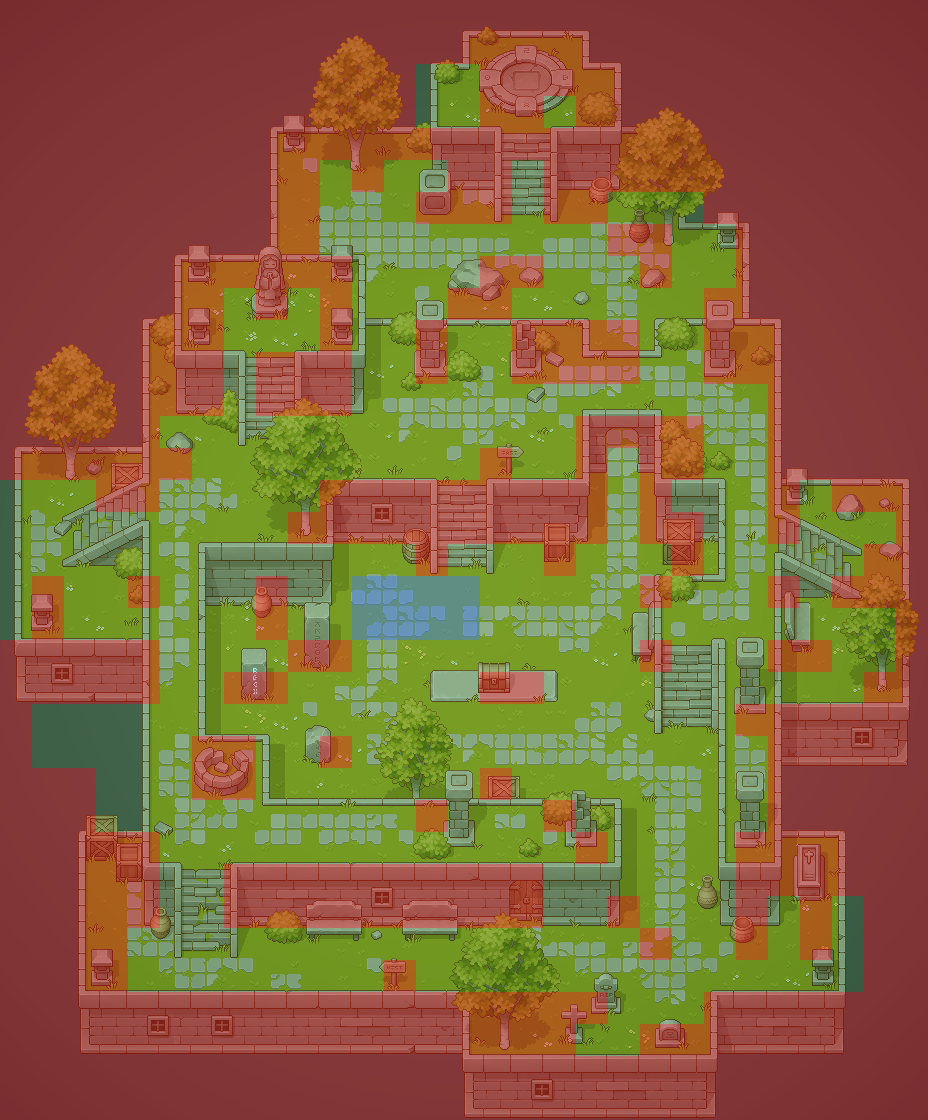
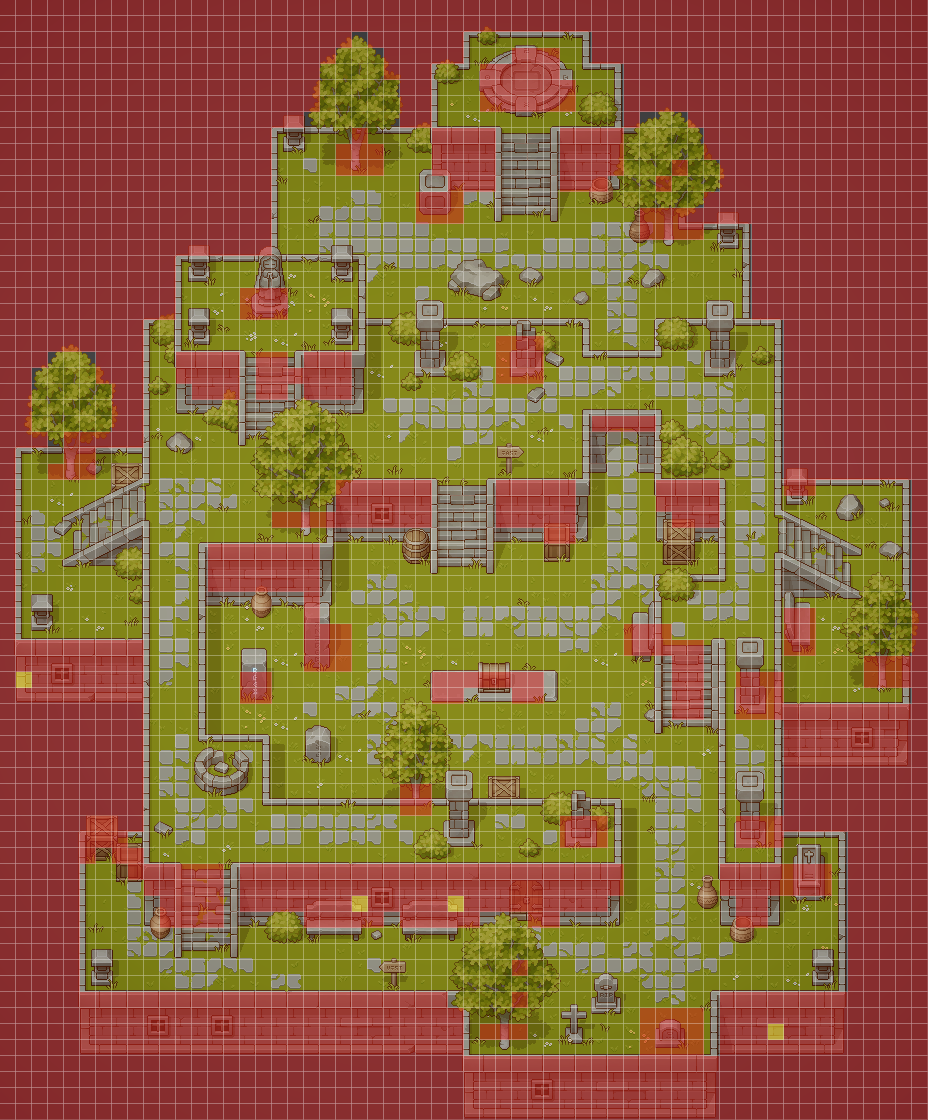
Fix ruins collision: derive 58x70 grid from art, render scene at 2x
The ruins art is 16px/tile (ground.png is a 1:1 crop of the pack's Scene
Overview), but collision used 32px cells, so each cell covered 2x2 art tiles
and any wall filling half a cell sealed a visually open corridor. The avatar
(48px sprite, radius 12) was also oversized for the art at scale 1.

- Render the scene at 2x (ART_SCALE) so 1 art tile = TILE_SIZE, matching the
  other scenarios; prop positions/bases scale with it
- Replace RUINS_ROWS with a 58x70 grid (1 cell per art tile) derived by
  template matching each scene tile against the pack tilesets (grass/stone =
  free, wall/props/struct = solid), plus denoise, prop footprints from the
  real sprite sizes, and explicit fixes for the north staircase and the
  stone gateway (its lintel is overhead, so the ground under it is walkable)
- Drop cacheAsTexture on the ruins ground: it is a single sprite already, and
  caching 1856x2240 would cost tens of MB of VRAM for nothing
- Add Game.selfPosition / __togetherPos() so tests can assert real movement
- Move spawn to the open central lawn

Walkable tiles go from 401 (5 unreachable) to 2092, all reachable. Verified
by walking the map headless: crossing the gateway north-south cell by cell,
up the north staircase to the dais platform, and both side wings.

diff --git a/shared/src/scenarios.ts b/shared/src/scenarios.ts
@@ -79,46 +79,86 @@ const PLAZA_ROWS = [
 ];
 
 /**
- * Ruínas 29x35 (assets Pixel Art Top Down - Basic, by Cainos).
+ * Ruínas 58x70 (assets Pixel Art Top Down - Basic, by Cainos).
  * O visual é a própria cena do pack ("Scene Overview") renderizada como
- * imagem de chão; esta grade define somente colisão: `#` sólido, `.` livre.
+ * imagem de chão, desenhada em 2x — a arte é de 16px/tile, então 1 tile de
+ * arte = 1 célula desta grade = TILE_SIZE na tela, como nos outros cenários.
+ * Esta grade define somente colisão: `#` sólido, `.` livre. Foi derivada por
+ * template matching de cada tile da cena contra os tilesets do pack (grama e
+ * pedra = livre; muro, props e estruturas = sólido), com as escadarias e o
+ * vão do arco liberados e as bases dos props altos marcadas sólidas.
  */
 const RUINS_ROWS = [
-  '#############################',
-  '#############################',
-  '#############..##############',
-  '#############..##.###########',
-  '#############################',
-  '##########.#..##.############',
-  '##########...###.##...#######',
-  '##########.........##..######',
-  '###########....##...#..######',
-  '#######.#.#...##......#######',
-  '#######...#..#..####..#######',
-  '#######.###..#..####..#######',
-  '#######.###.............#####',
-  '#####.............####..#####',
-  '######.........#..#.##..#####',
-  '...##.....#########.#...#.###',
-  '.........##########.##..#...#',
-  '.............#...#...#.....##',
-  '.#..#...#...........#...#.###',
-  '.#......#...................#',
-  '#####....##.........#...##..#',
-  '#####..##......##..........##',
-  '#......................######',
-  '#.....##..#.............#####',
-  '###...##.......#........#####',
-  '###..........#...#......#####',
-  '#####.............#....######',
-  '#####..##########......######',
-  '#####..##########..#...#.#.##',
-  '####................#..#.#.##',
-  '####........#..............##',
-  '###################...#######',
-  '##################..#########',
-  '#############################',
-  '#############################',
+  '##########################################################',
+  '##########################################################',
+  '######################.######........#####################',
+  '#####################...#####...###..#####################',
+  '####################....###...#####....###################',
+  '####################.....##...######...###################',
+  '####################.....##...######...###################',
+  '###################......##............#...###############',
+  '#################.....#....####....####.....##############',
+  '#################....###...####....####.....##############',
+  '#################....###...####....####...#..#############',
+  '#################...........###....###...#...#############',
+  '#################.........###...............##############',
+  '#################.........###...........##################',
+  '#################.......................####...###########',
+  '#################..............................###########',
+  '###########....................................###########',
+  '###########....................................###########',
+  '###########....###.............................###########',
+  '###########....###.............................###########',
+  '#########........................................#########',
+  '#########......................###...............#########',
+  '###...###..####.##.###.........###...............#########',
+  '##....###..####.######.........###...............#########',
+  '##.....##...###.##.###...........................#########',
+  '##.....##........................................#########',
+  '##.....##............................#..#........#########',
+  '###.#####............................#..#........#########',
+  '#...##...............................#..#........#########',
+  '#..###...............................#..#........#########',
+  '#....................######....#####.....####....##......#',
+  '#....................######....#####.....####............#',
+  '#................##########....#####......###............#',
+  '#.................................##.....................#',
+  '#............#######.....................................#',
+  '#............#######.....................................#',
+  '#............#######.....................................#',
+  '#..................#.....................................#',
+  '#..................#.............................##......#',
+  '#..................###.................###.......##......#',
+  '#########..........###.................#####.....##......#',
+  '#########..........###....................##..........####',
+  '#########......##..........#######........##..###.....####',
+  '#########......##..........##...##........##..###........#',
+  '#########.................................##..############',
+  '#########........................................#########',
+  '#########........................................#########',
+  '#########........................................#########',
+  '#########........................................#########',
+  '#########................##......................#########',
+  '#########................##......................#########',
+  '#########..........................###........############',
+  '########...........................###........###....#####',
+  '######.##............................................#####',
+  '#####...######.########################......#######.#####',
+  '#####....#####.########################......#######.#####',
+  '#####.....####.#######################........##.....#####',
+  '#####.....####.....#####.#####...##...........##.....#####',
+  '#####................................................#####',
+  '#####................................................#####',
+  '#####...........................#....................#####',
+  '#####................................................#####',
+  '############################....#............#############',
+  '#############################...........####.#############',
+  '#############################.###.......####.#############',
+  '#############################...........####.#############',
+  '##########################################################',
+  '##########################################################',
+  '##########################################################',
+  '##########################################################',
 ];
 
 /**
@@ -252,9 +292,9 @@ export const SCENARIOS: Record<ScenarioId, ScenarioDef> = {
       '#': TileType.Wall,
     },
     defaultTile: TileType.Floor,
-    // Praça central de pedra, ao norte do baú.
+    // Gramado central aberto, ao sul do muro do meio.
     spawnTiles: [
-      [11, 18], [12, 18], [13, 18], [14, 18], [11, 19], [12, 19], [13, 19], [14, 19],
+      [28, 35], [29, 35], [30, 35], [28, 36], [29, 36], [30, 36], [31, 35], [31, 36],
     ],
   },
 };

diff --git a/client/src/game/RuinsTilemap.ts b/client/src/game/RuinsTilemap.ts
@@ -15,9 +15,17 @@ export interface RuinsTextures {
 }
 
 /**
+ * A arte do pack é de 16px/tile e a cena é usada 1:1 como imagem de chão.
+ * Desenhamos em 2x para que 1 tile de arte = TILE_SIZE (32px) na tela, igual
+ * aos outros cenários — assim a grade de colisão casa 1:1 com a arte e o
+ * avatar fica na proporção certa.
+ */
+const ART_SCALE = 2;
+
+/**
  * Instâncias dos props altos, extraídas pixel a pixel da cena original
- * ("Scene Overview" do pack). x/y em px do mundo; `base` é o offset do
- * pé do sprite (para o y-sort com os players).
+ * ("Scene Overview" do pack). x/y/base em px da ARTE (escala 1), convertidos
+ * para o mundo por ART_SCALE; `base` é o offset do pé do sprite (y-sort).
  */
 const PROP_INSTANCES: Array<{ tex: PropName; x: number; y: number; base: number }> = [
   { tex: 'tree0', x: 613, y: 107, base: 131 },
@@ -52,15 +60,19 @@ export class RuinsTilemap extends TilemapBase {
     super(map);
 
     const ground = new Sprite(tx.ground);
+    ground.scale.set(ART_SCALE);
     this.view.addChild(ground);
+    // sem cacheAsTexture: o chão já é um único sprite (1 draw call), e cachear
+    // 1856x2240 na resolução do renderer custaria dezenas de MB de VRAM em troca
+    // de nada.
 
     for (const inst of PROP_INSTANCES) {
       const sprite = new Sprite(tx.props[inst.tex]);
-      sprite.position.set(inst.x, inst.y);
-      sprite.zIndex = inst.y + inst.base;
+      sprite.scale.set(ART_SCALE);
+      sprite.position.set(inst.x * ART_SCALE, inst.y * ART_SCALE);
+      sprite.zIndex = (inst.y + inst.base) * ART_SCALE;
       this.props.push(sprite);
     }
-    this.view.cacheAsTexture(true);
   }
 }
 

diff --git a/client/src/game/Game.ts b/client/src/game/Game.ts
@@ -1,5 +1,5 @@
 import { Application, Container } from 'pixi.js';
-import { SCENARIOS, TICK_RATE, parseMap, type PlayerState, type ScenarioId } from '@together/shared';
+import { SCENARIOS, TICK_RATE, TILE_SIZE, parseMap, type PlayerState, type ScenarioId } from '@together/shared';
 import type { AppSocket } from '../net/socket';
 import { useStore } from '../state/store';
 import { Keyboard } from './input';
@@ -68,6 +68,18 @@ export class Game {
     this.app.canvas.addEventListener('wheel', this.onWheel, { passive: false });
     this.bindSocket();
     this.app.ticker.add(this.tick);
+
+    (window as unknown as Record<string, unknown>).__togetherPos = () => this.selfPosition;
+  }
+
+  /** Posição do player local, em px do mundo e em tiles. Debug no console. */
+  get selfPosition(): { x: number; y: number; tileX: number; tileY: number } {
+    return {
+      x: Math.round(this.local.x),
+      y: Math.round(this.local.y),
+      tileX: Math.floor(this.local.x / TILE_SIZE),
+      tileY: Math.floor(this.local.y / TILE_SIZE),
+    };
   }
 
   private onWheel = (e: WheelEvent) => {
